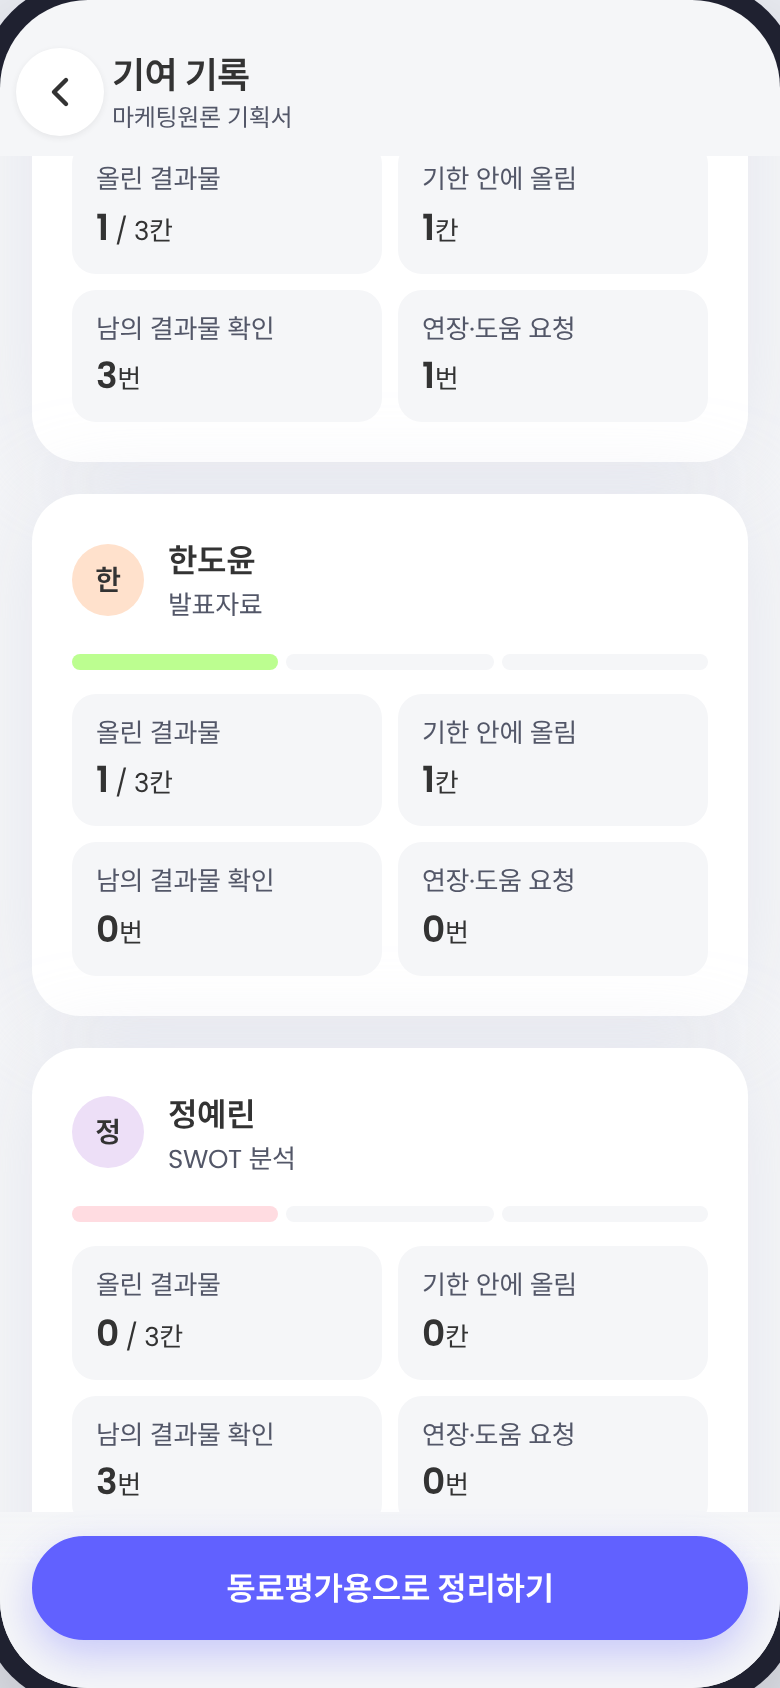
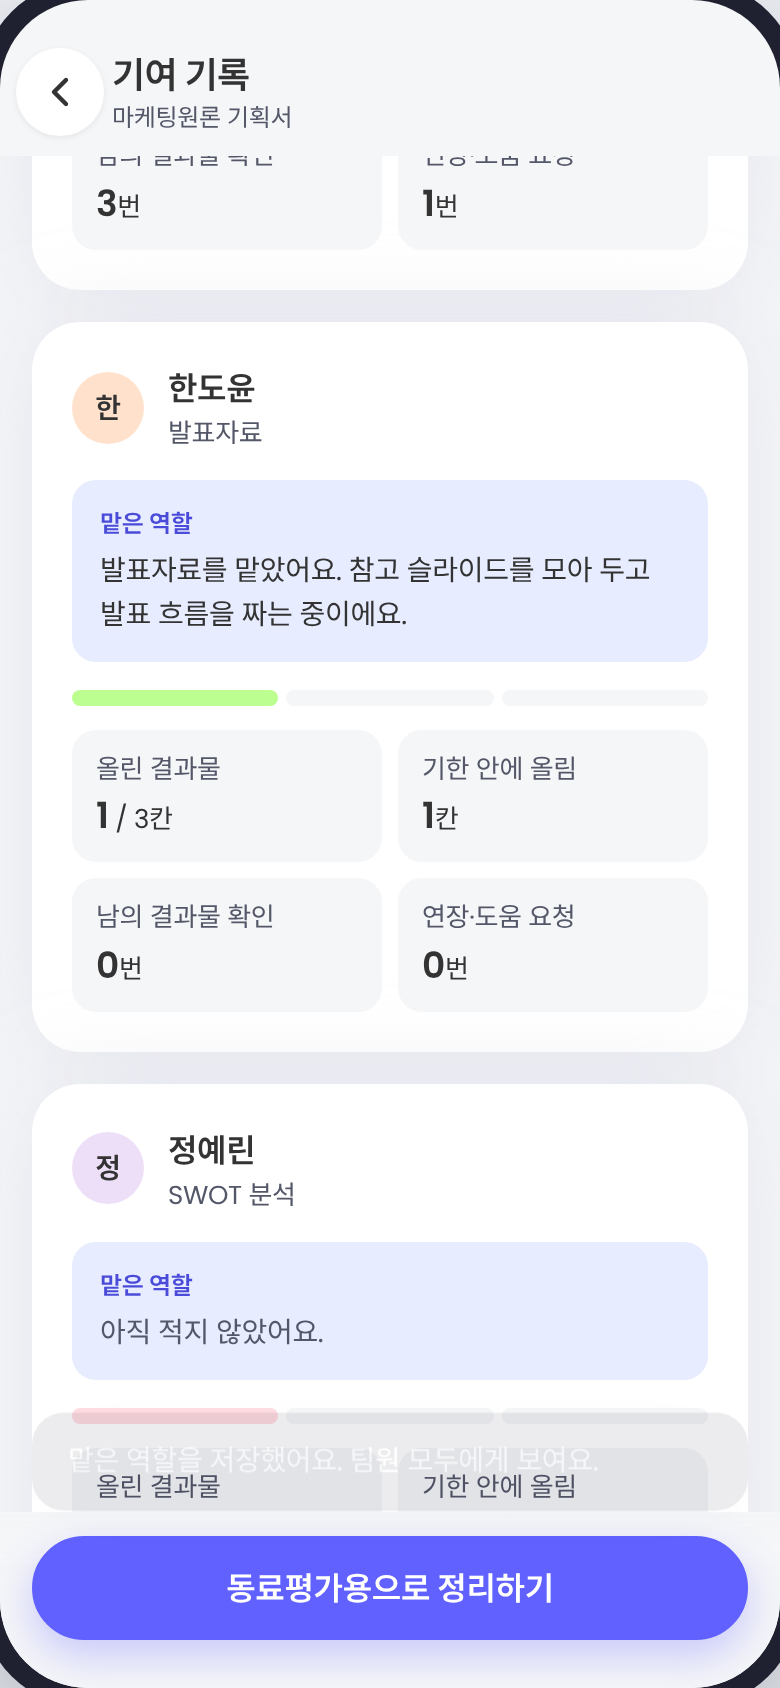
Add editable role summary to contribution record
Claude-Session: https://claude.ai/code/session_01D1tN5axZqsQHREzphrN6yM

diff --git a/prototype/index.html b/prototype/index.html
@@ -253,6 +253,8 @@ function seed(){
         {s:'late'}, {s:'todo'}, {s:'todo'}]}
     ]
   };
+  var notes = {'김민수':'시장조사와 최종 취합을 맡았어요. 팀 일정과 단계 기한도 처음에 정리했어요.', '이수아':'4P 분석을 맡았어요. 가격·유통 자료를 모으고 출처를 표로 정리했어요.', '한도윤':'발표자료를 맡았어요. 참고 슬라이드를 모아 두고 발표 흐름을 짜는 중이에요.'};
+  mkt.members.forEach(function(m){ m.roleNote = notes[m.name] || ''; });
   mkt.final = {file:'마케팅원론_기획서_최종본_v1.pdf', by:'김민수', at:'11/15 21:40', memo:'4P와 SWOT 자리는 비워 두고 합쳤어요. 빈 곳은 노란색으로 표시했어요.', checks:['이수아']};
   var cap = {
     id:'cap', name:'캡스톤디자인 시스템 개발', due:D(12,4), size:4, isNew:false,
@@ -661,6 +663,15 @@ V.contrib = function(p){
       var bg = c.s==='done' ? 'var(--mint)' : late ? 'var(--late-bg)' : c.s==='ext' ? 'var(--peach)' : 'var(--canvas)';
       return '<span title="' + esc(t.stages[i].label) + '" style="flex:1 1 0;height:8px;border-radius:4px;background:' + bg + '"></span>'; }).join('');
     h += '<div class="sheet"><div class="pad"><div style="display:flex;align-items:center;gap:12px">' + av(mm.name, colOf(t, mi)) + '<div style="flex:1 1 auto;min-width:0"><div style="font-weight:600;font-size:16px">' + esc(mm.name) + (mm.name===S.me ? '<span class="me">나</span>' : '') + '</div><div class="hint" style="margin:0">' + esc(mm.part) + '</div></div></div>';
+    var isMe = mm.name === S.me, editing = S.flags.roleEdit === mi;
+    h += '<div style="margin-top:14px;padding:12px 14px;border-radius:12px;background:var(--periwinkle)">';
+    h += '<div style="display:flex;align-items:center;justify-content:space-between;gap:8px"><span style="font-size:12px;font-weight:600;color:var(--violet-ink)">맡은 역할</span>' + (isMe && !editing ? '<button class="btn text" style="min-height:44px;margin:-10px -4px -10px 0;font-size:13px" data-a="roleedit" data-m="' + mi + '">' + (mm.roleNote ? '고치기' : '적기') + '</button>' : '') + '</div>';
+    if (editing){
+      h += '<label class="sr" for="r-note">' + esc(mm.name) + ' 맡은 역할</label><textarea class="field" id="r-note" maxlength="100" style="margin-top:6px;height:76px" placeholder="예: 4P 분석을 맡았어요. 가격 자료를 모아 표로 정리했어요.">' + esc(mm.roleNote || '') + '</textarea><p class="hint" style="margin:6px 0 10px">한두 문장, 100자까지 적을 수 있어요.</p><div style="display:flex;gap:8px"><button class="btn small" data-a="rolecancel">취소</button><button class="btn small primary" data-a="rolesave" data-team="' + t.id + '" data-m="' + mi + '">저장</button></div>';
+    } else {
+      h += '<p style="margin:4px 0 0;font-size:14px;line-height:1.55;color:' + (mm.roleNote ? 'var(--ink)' : 'var(--slate)') + '">' + (mm.roleNote ? esc(mm.roleNote) : (isMe ? '아직 적지 않았어요. 내가 맡은 일을 한두 문장으로 적어 주세요.' : '아직 적지 않았어요.')) + '</p>';
+    }
+    h += '</div>';
     h += '<div style="display:flex;gap:4px;margin:14px 0 12px" aria-hidden="true">' + strip + '</div>';
     h += '<div style="display:grid;grid-template-columns:repeat(2,minmax(0,1fr));gap:8px;font-size:13px">';
     h += '<div style="background:var(--canvas);border-radius:12px;padding:10px 12px"><div class="hint" style="margin:0">올린 결과물</div><b style="font-size:18px">' + st.up + '</b> / ' + n + '칸</div>';
@@ -825,8 +836,11 @@ document.addEventListener('click', function(e){
     case 'sadd': { t = team(S.cur.p.team); collectStages(t); var last = t.stages[t.stages.length-1].due; var nd = addDays(last, 1); if (nd >= t.due) nd = addDays(t.due, -1); t.stages.push({label:'검토', due:nd}); t.members.forEach(function(m){ m.cells.push({s:'todo'}); }); render(); break; }
     case 'editstages': go('stages', {team:d.team, edit:true}); break;
     case 'files': go('files', {team:d.team}); break;
-    case 'contrib': go('contrib', {team:d.team}); break;
+    case 'contrib': S.flags.roleEdit = null; go('contrib', {team:d.team}); break;
     case 'cchart': go('cchart', {team:d.team, view:'chart'}); break;
+    case 'roleedit': S.flags.roleEdit = +d.m; render(); var ta = document.getElementById('r-note'); if (ta) ta.focus(); break;
+    case 'rolecancel': S.flags.roleEdit = null; render(); break;
+    case 'rolesave': { var tr = team(d.team), note = document.getElementById('r-note').value.trim(); tr.members[+d.m].roleNote = note; S.flags.roleEdit = null; render(); toast(note ? '맡은 역할을 저장했어요. 팀원 모두에게 보여요.' : '맡은 역할을 비웠어요.'); break; }
     case 'cview': S.cur.p.view = d.v; render(); break;
     case 'fpreview': go('fpreview', {team:d.team}); break;
     case 'finalcheck': { var tf = team(d.team); if (tf.final.checks.indexOf(S.me) < 0) tf.final.checks.push(S.me); render(); toast(tf.final.by + '님에게 최종본 확인이 보여요'); break; }

diff --git a/docs/기획서_v2.md b/docs/기획서_v2.md
@@ -405,3 +405,4 @@
 - 프로토타입 시나리오 F(팀장 김민수, 제출 전 확인) 추가
 - 화면 캡처: `docs/hifi/Files.png`, `FilesMine.png`, `Contrib.png`, `Contrib2.png`
 - 15-b 기여 기록 한눈에 보기: 팀원별 4가지 기록(올린 결과물, 기한 안에 올림, 남의 결과물 확인, 연장·도움 요청)을 한 차트에 묶은 가로 막대. 눈금 하나, 팀 등록 순서(순위 아님), 막대를 누르면 값, 같은 내용을 표 탭으로도 제공. 색 4개는 색약 구분 검사를 통과(주황 막대 대비가 낮아 값 라벨과 표로 보완)
+- 15-a 맡은 역할: 기여 기록 카드마다 맡은 역할을 한두 문장(100자까지)으로 적는 칸. 본인 카드에만 "고치기"가 있고, 저장하면 팀원 모두에게 보인다. 숫자 기록만으로는 취합·일정 정리 같은 일이 드러나지 않는다는 점을 보완한다 (P4-60c "팀장이 하는 일도 평가에 반영됐으면")
